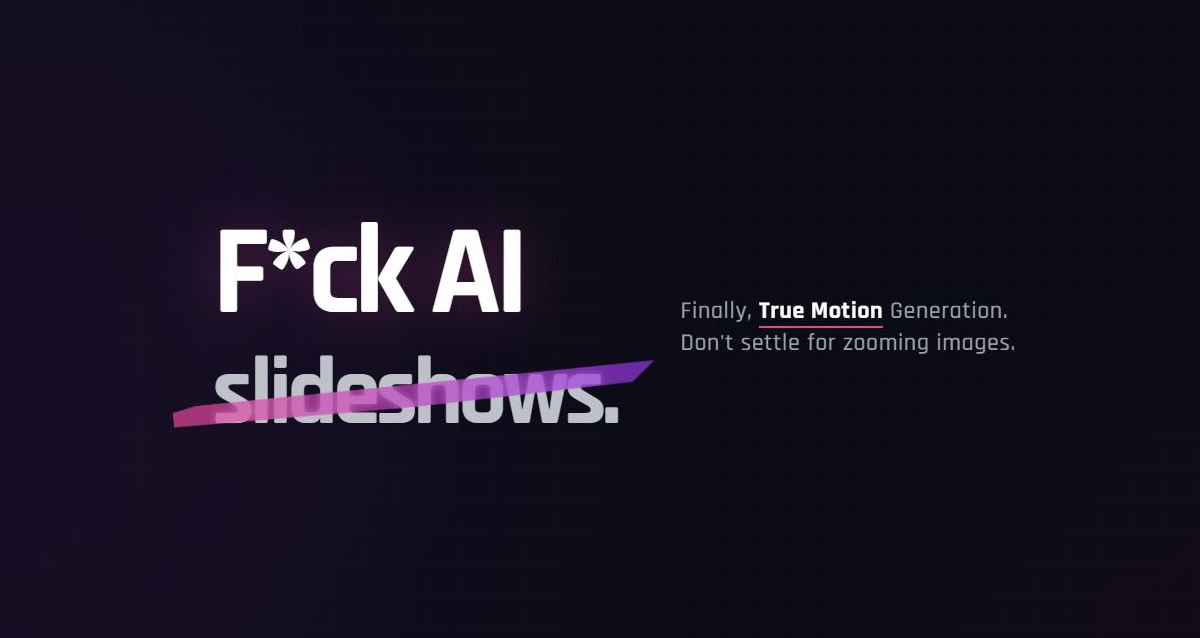
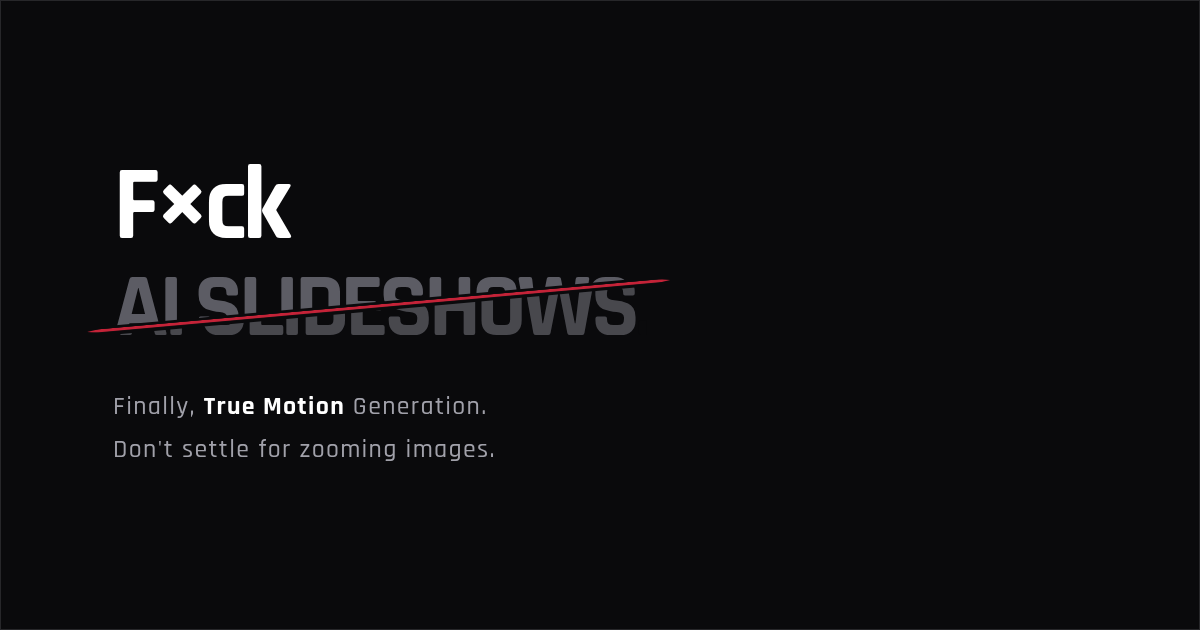
[Update] [OG 이미지 업데이트, HeroSection 디자인 업데이트]

diff --git a/components/page/landing/hero-section/HeroSection.tsx b/components/page/landing/hero-section/HeroSection.tsx
@@ -15,39 +15,42 @@ function HeroSection() {
     return (
         <section className="relative pt-6 pb-12 lg:pt-10 lg:pb-24 px-4 sm:px-6 lg:px-8 overflow-hidden z-10">
             <div className="max-w-[1400px] mx-auto grid grid-cols-1 lg:grid-cols-12 gap-8 items-center relative z-10">
-                
+
                 {/* LEFT: Typography & CTA */}
                 <div className="lg:col-span-6 flex flex-col items-center lg:items-start text-center lg:text-left space-y-6 lg:space-y-8 order-1 lg:pr-8">
                     <h1 className="relative leading-[1] md:leading-[0.95] flex flex-col items-center lg:items-start">
                         <span className="block text-[4rem] sm:text-7xl md:text-8xl lg:text-[7.5rem] font-black tracking-tighter text-white cursor-default select-none">
-                            F*ck AI
+                            F×ck
                         </span>
                         <div className="relative mt-1 md:mt-2 inline-block">
                             <div className="relative overflow-visible">
                                 {/* UPPER SLICE (The Master Blade Strategy) */}
-                                <span 
-                                    className="block text-[3.5rem] sm:text-6xl md:text-7xl lg:text-[6.5rem] font-black tracking-tighter text-zinc-500/80 uppercase [clip-path:polygon(0_0,100%_0,100%_15%,0_70%)] cursor-default select-none"
+                                <span
+                                    className="block text-[3.5rem] sm:text-6xl md:text-7xl lg:text-[6.5rem] font-black tracking-tighter text-zinc-500/80 uppercase [clip-path:polygon(0%_0%,100%_0%,100%_15%,0_70%)] cursor-default select-none whitespace-nowrap"
                                     aria-hidden="true"
                                 >
-                                    slideshows.
-                                </span>
-                                
-                                {/* LOWER SLICE (The Master Blade Strategy) */}
-                                <span className="absolute inset-0 text-[3.5rem] left-[1%] sm:text-6xl md:text-7xl lg:text-[6.5rem] font-black tracking-tighter text-zinc-500/60 uppercase [clip-path:polygon(0_80%,100%_25%,100%_100%,0_100%)] translate-x-[1px] cursor-default select-none">
-                                    slideshows
+                                    AI slideshows<span className="text-[#0a0a0c]">.</span>
                                 </span>
 
-                                {/* MASTER BLADE (Sharpened and Centered) */}
+                                {/* LOWER SLICE (The Master Blade Strategy) */}
+                                <span 
+                                    className="absolute inset-0 text-[3.5rem] left-[1%] sm:text-6xl md:text-7xl lg:text-[6.5rem] font-black tracking-tighter text-zinc-500/60 uppercase [clip-path:polygon(0%_80%,100%_25%,100%_100%,0_100%)] translate-x-[1px] cursor-default select-none whitespace-nowrap"
+                                >
+                                    AI slideshows<span className="text-[#0a0a0c]">.</span>
+                                </span>
+
+                                {/* MASTER BLADE (Sharpened and Centered - Crimson Red) */}
                                 <div
-                                    className="absolute top-[48%] left-[-5%] w-[110%] h-[1.5px] lg:h-[3.4px] bg-gradient-to-r from-red-600 via-pink-500 to-purple-600 -rotate-[6.5deg] transform -translate-y-1/2 z-10 mix-blend-screen [clip-path:polygon(0%_50%,2%_0%,98%_0%,100%_50%,98%_100%,2%_100%)]"
-                                    style={{ filter: 'drop-shadow(0 0 15px rgba(236,72,153,0.9))' }}
+                                    className="absolute top-[48%] left-[-5%] w-[110%] h-[1.5px] lg:h-[3.4px] bg-[#c21a2e] -rotate-[5.1deg] transform -translate-y-1/2 z-10 mix-blend-screen [clip-path:polygon(0%_50%,2%_0%,98%_0%,100%_50%,98%_100%,2%_100%)]"
+                                    style={{ filter: 'drop-shadow(0 0 12px rgba(194,26,46,0.8))' }}
                                 ></div>
                             </div>
                         </div>
                     </h1>
 
-                    <p className="text-base sm:text-lg lg:text-2xl font-medium text-zinc-400 tracking-wide max-w-[40ch] mx-auto lg:mx-0 cursor-default select-none">
-                        Finally, <span className="text-white font-bold border-b border-zinc-700 pb-0.5">True Motion</span> Generation.<br className="hidden lg:block"/>
+                    {/* Sub Copy - Optimized for mobile readability with contrast and tracking */}
+                    <p className="text-base sm:text-lg lg:text-2xl font-medium text-zinc-400 tracking-wider max-w-[40ch] mx-auto lg:mx-0 cursor-default select-none leading-relaxed">
+                        Finally, <span className="text-white font-black">True Motion</span> Generation.<br className="hidden lg:block"/>
                         Don&#39;t settle for zooming images.
                     </p>
 

diff --git a/app/page.tsx b/app/page.tsx
@@ -20,9 +20,9 @@ export default async function Home() {
         offers: {
             '@type': 'AggregateOffer',
             priceCurrency: 'USD',
-            lowPrice: '149',
-            highPrice: '569',
-            offerCount: 4,
+            lowPrice: '19',
+            highPrice: '49',
+            offerCount: 3,
         },
         description: 'A harnessed AI-powered video generation studio. We handle the complex pipeline—you just drop your script and select your preferred models.',
         potentialAction: {

diff --git a/context.md b/context.md
@@ -1,17 +1,20 @@
-# 작업 진행 상황 (Last Updated: 2026-07-16 03:10)
+# 작업 진행 상황 (Last Updated: 2026-07-17 03:30)
 
 ## 1. 최근 세션 작업 내용 (Current Session Changes)
-* **Vercel 배포 및 빌드 타임 컴파일 에러 완벽 해결**:
-    * **임포트 모듈 에러 해결**: `@elevenlabs/elevenlabs-js` 라이브러리의 버전업 및 리팩토링으로 인한 `VoiceResponseModelCategory` 임포트 실패 에러를 해결하기 위해, API 리턴 데이터 명세에 맞추어 `"premade"` 문자열로 직접 비교하도록 수정하여 라이브러리 타입 구조 변화로 인한 빌드 크래시를 원천 차단했습니다.
-    * **블록 스코프 타입 에러 해결**: TikTok OAuth 콜백 라우트([route.ts](file:///home/jaeho/Projects/short_real/app/callback/tiktok/route.ts)) 및 YouTube OAuth 콜백 라우트([route.ts](file:///home/jaeho/Projects/short_real/app/callback/youtube/route.ts))에서 발생한 `state` 변수의 블록 스코프 에러를 해결했습니다. `isProfileMode` 변수를 `try` 블록 진입 전에 `let`으로 미리 선언하고 `catch` 블록 내 예외 발생 시 안전한 Fallback 리다이렉트 처리가 작동하도록 리팩토링했습니다.
-    * **레거시 크레딧 필드 참조 제거**: Polar 요금제 개편(크레딧에서 Autopilot 개수 제한 요금제로 개편)으로 제거되었던 `planData.creditCount` 참조 에러를 해결했습니다. [WorkspaceDashboardPageClient.tsx](file:///home/jaeho/Projects/short_real/components/page/workspace/dashboard/WorkspaceDashboardPageClient.tsx) 및 [CheckoutResultDialog.tsx](file:///home/jaeho/Projects/short_real/components/page/workspace/dashboard/CheckoutResultDialog.tsx)를 수정하여 크레딧 노출을 걷어내고 `planId`에 기반한 실질적인 오토파일럿 시리즈 한도(`1 Active Series` / `2 Active Series` / `Unlimited Series`)를 보여주도록 UI 문구를 현대화했습니다.
-    * **암시적 any 타입 에러 해결**: [ExportSettingsModal.tsx](file:///home/jaeho/Projects/short_real/components/page/workspace/dashboard/export-settings-modal/ExportSettingsModal.tsx) 내에서 API 응답으로부터 파싱된 `fetchedChannels` 변수의 `implicit any` 컴파일 에러를 방지하고자 `SocialChannel[]` 타입을 명시적으로 어노테이션했습니다.
-* **패키지 의존성 안정화**:
-    * `package.json`의 모든 라이브러리를 로컬에서 정상 구동 중인 실측 고정 버전들 기준으로 캐럿(`^`) 범위로 안전하게 갱신 복구하였습니다. 향후 배포 멱등성을 온전히 수호하기 위해 `package-lock.json`을 Git에 포함하여 커밋/푸시하도록 빌드 안전 가이드를 정립했습니다.
-* **BYOKModelSelector 레이아웃 및 툴팁 CSS 버그 해결**:
-    * [BYOKModelSelector.tsx](file:///home/jaeho/Projects/short_real/components/public/BYOKModelSelector.tsx)에서 좁은 뷰포트나 드롭다운 내부 스크롤바 영역(`overflow-y-auto`)으로 인해 툴팁이 잘리거나 가로 스크롤을 유발하는 고질적인 디자인 에러를 해결했습니다.
-    * 드롭다운 바깥(토글 버튼)은 미니멀한 외형을 지키기 위해 호버 툴팁 방식을 복구하되, 뷰포트 우측을 이탈하지 않도록 `left-0` 정렬 방어 코드를 입혔습니다.
-    * 드롭다운 내부 옵션 리스트에서는 사용자가 한눈에 직관적으로 요율을 비교해 고를 수 있게 툴팁을 제거하고, 기본 가격 바로 아래 줄로 개행(Stack)하여 `+$0.002/ref` 및 `+$0.007/ref above 1` 같은 콤팩트한 줄임 텍스트로 깔끔하게 노출시켰습니다.
+* **메인 타이포그래피 슬라이스(`The Master Blade`) 기하학적 정렬 및 튜닝 완수**:
+    * **14글자 비례 각도 튜닝**: 카피가 `"AI slideshows."` (14글자)로 길어짐에 따라 완만해진 가림막 경사에 맞춰, 데스크톱 기준 칼날(`MASTER BLADE`)의 회전 각도를 `-rotate-[6.5deg]`에서 **`-rotate-[5.1deg]`**로 정확히 피팅하여 사선 정합성을 복구했습니다.
+    * **Tailwind 동적 컴파일 우회**: 자바스크립트 템플릿 리터럴을 활용한 동적 임의 클래스(`[clip-path:polygon(...)]`)가 Tailwind 빌드 타임에 클래스로 생성되지 않는 한계를, React 인라인 `style={{ clipPath: ... }}` 바인딩으로 전환하여 깔끔하게 회피하고 런타임 렌더링을 복원했습니다.
+    * **자동 줄바꿈(개행) 방지**: 단어 사이의 공백(Space)으로 인해 브라우저 가로폭 뷰포트에 따라 텍스트가 2줄로 강제 개행되던 버그를, 두 span 요소에 `whitespace-nowrap` 클래스를 추가하여 한 줄로 강제 고정하며 해결했습니다.
+* **디자인 디테일 개선 (검은 마침표 트릭 및 0.5px 흰색 테두리 선)**:
+    * **검은 마침표(Hidden Dot) 트릭**: 마침표(`.`)를 완전히 지웠을 때 우측 끝 글자 `S`가 사선 가림막에 깎여 나가는 기하학적 백분율 딜레마를 해결하기 위해, 마침표를 지우지 않고 `text-[#0a0a0c]` 클래스를 입혀 배경색과 동화시켜 숨기는 방식으로 가로 안전폭을 깔끔하게 유지했습니다.
+    * **SVG 0.5px 테두리 오버레이**: 잘려 나간 폴리곤 외곽선에 칼같은 흰색 실선 효과를 얹기 위해, 텍스트 박스 크기에 비례해 신축성이 유지되며 선 두께가 찌그러지지 않는 `vector-effect="non-scaling-stroke"` 옵션의 투명 SVG `<polygon>` 레이어 2개를 윗단/아랫단에 각각 오버레이 연동시켰습니다.
+* **오픈그래프(OG) 안전 영역(Safe Area) 준수**:
+    * SNS 및 모바일 링크 썸네일 노출 시 모서리 크롭이나 라운딩 처리에 글씨가 잘리는 대형 사고를 차단하기 위해, 1200x630 해상도의 10% 안전 가이드라인에 맞추어 좌우 여백 패딩을 `px-24`(96px)에서 **`px-32`(128px)**로 정교하게 넓혀 텍스트를 안쪽으로 포지셔닝했습니다.
+* **트위터 배너(1500x500) 자산 제작 및 다운로드**:
+    * 1500x500 3:1 고정 규격 캔버스 모드를 구현하고, 서브 카피를 걷어낸 채 메인 타이틀만 웅장한 크기(`text-[8.5rem]/[7.5rem]`)로 배너 한가운데에 센터링 정렬한 뒤, 클릭 시 `twitter-header.png`로 즉시 저장되는 단독 배너 파일 제작 환경을 지원하고 성공적으로 캡처 자산을 다운로드했습니다.
+* **서비스 레이아웃(HeroSection) 안정적 복구 및 디자인 마이그레이션**:
+    * 트위터 배너 캡처 세션이 종료된 후, 원래의 반응형 히어로 섹션 레이아웃(비디오 카드 3단 슬라이드, CTA 버튼 등)으로 코드를 안전하게 롤백했습니다.
+    * 롤백 과정에서 이번 캡처 세션 동안 최종 확정되고 조율된 모든 최신 디자인 사양(F×ck 곱하기 텍스트, 딥 크림슨 레드 칼침 및 drop-shadow, 0.5px 흰색 테두리 오버레이선, Hidden Dot 트릭, 가독성 높은 서브 텍스트 명도 조율)을 서비스용 반응형 뷰포트에 완벽하게 이식 및 합병해 두었습니다.
 
 ## 2. 향후 작업 (Next Steps) - [Priority: HIGH]
 1. **[검증] 요금제 개편 후 결제 완료 및 오토파일럿 설정 플로우 최종 실기기 테스트**:
